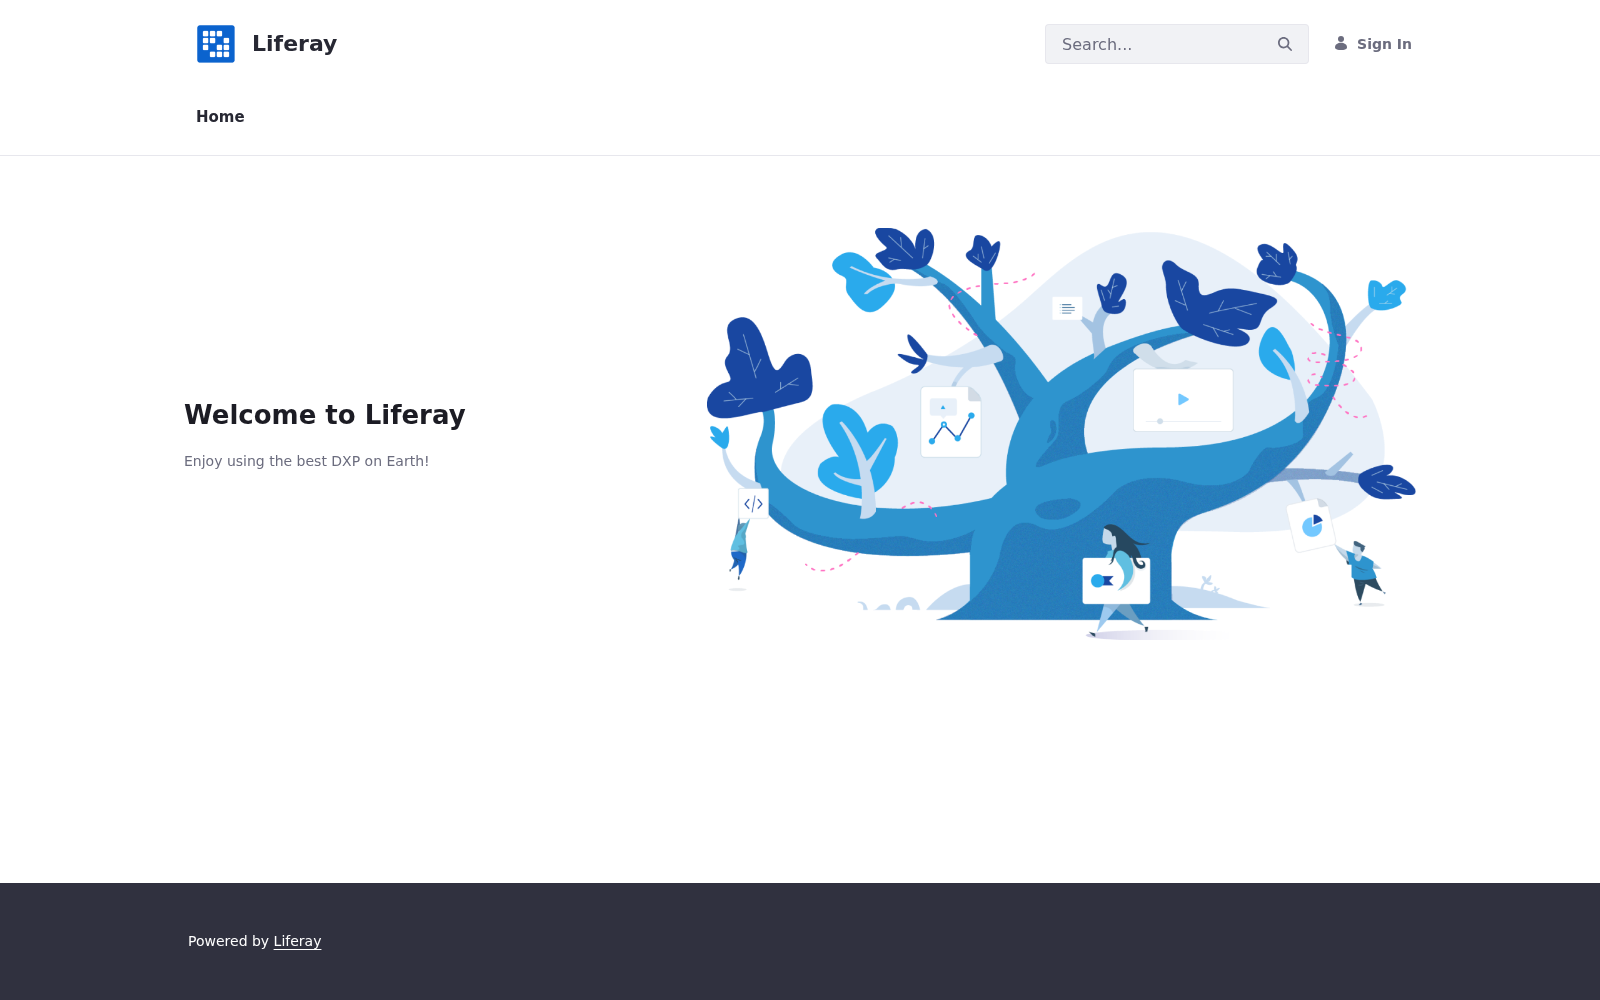
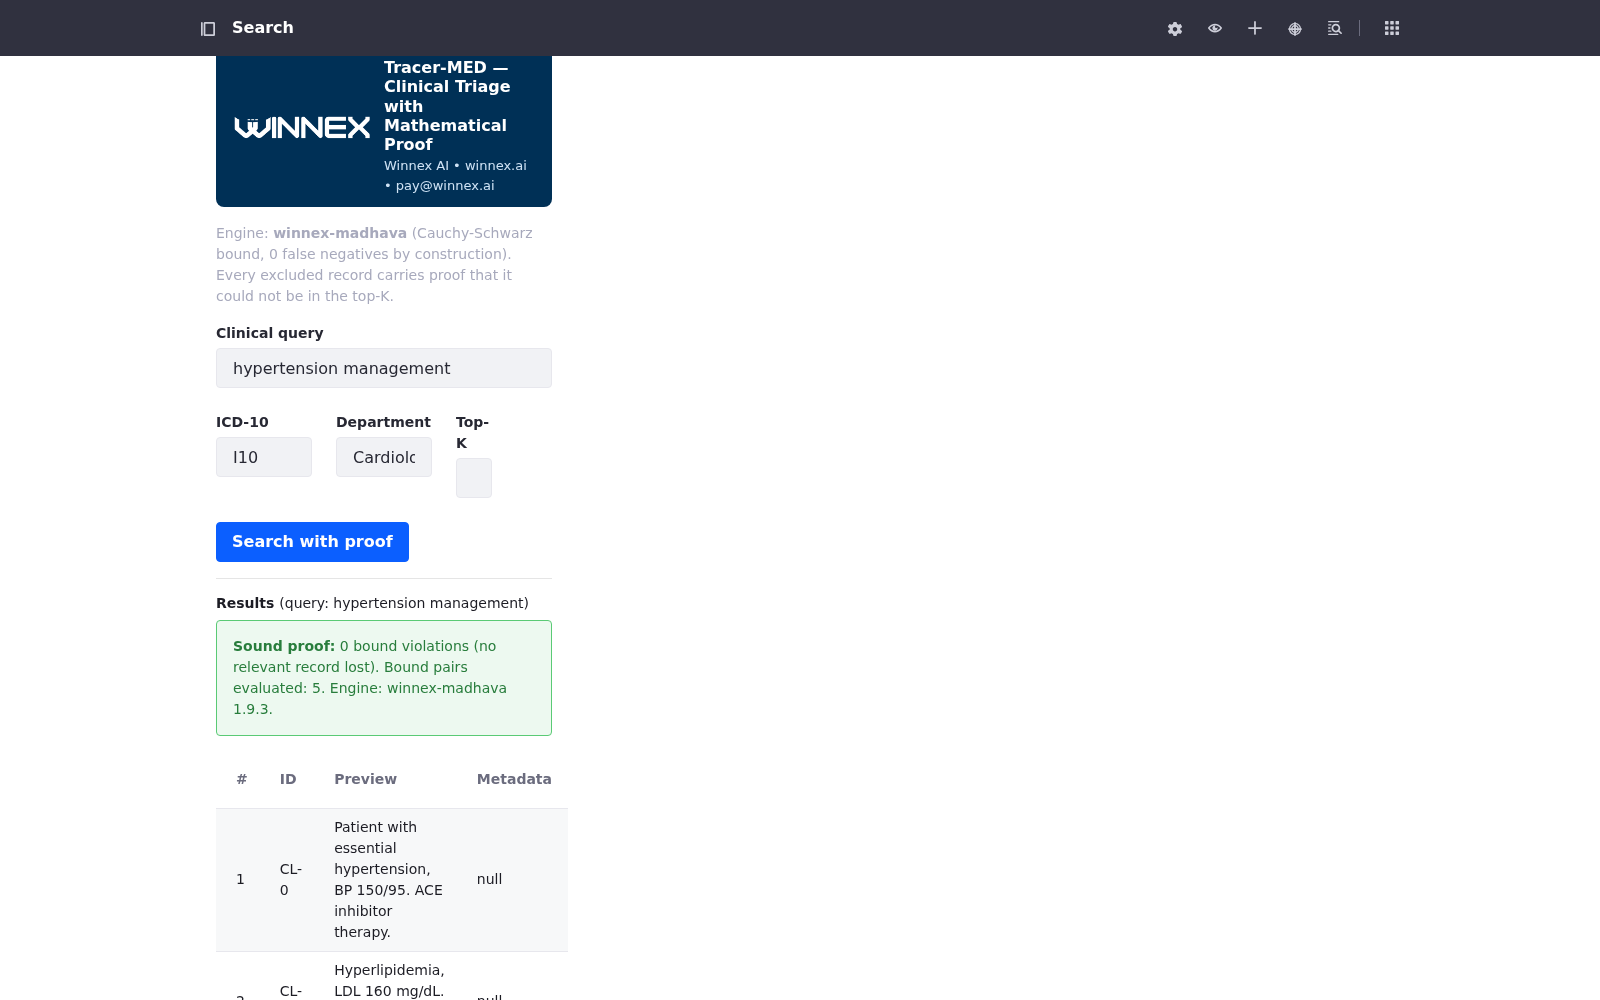
fix: real portlet screenshots, embedding config, docker build
- docs/screenshots/02-tracermed-portlet-results.png: real screenshot with
  results + sound proof banner (replaces the shared/empty placeholder)
- README.md: document edit-mode screenshot; examples described as reference
  patterns
- liferay/docker-compose.yml + Dockerfile: build image installing the Winnex
  OSGi bundles; NORMALIZE_SERVICE_URL env so the portlets reach the embedding
  service (host gateway)
- docs/WHITEPAPER_COMPLIANCE.html: compliance whitepaper
- .gitignore: exclude liferay/volumes/deploy runtime symlink

diff --git a/docs/WHITEPAPER_COMPLIANCE.html b/docs/WHITEPAPER_COMPLIANCE.html
@@ -1,0 +1,283 @@
+<!DOCTYPE html>
+<html lang="pt-BR">
+<head>
+<meta charset="UTF-8">
+<meta name="viewport" content="width=device-width, initial-scale=1.0">
+<title>Whitepaper de Conformidade — Tracer-MED | Winnex AI</title>
+<style>
+  :root {
+    --winnex-blue: #1a56db;
+    --winnex-dark: #0f2540;
+    --winnex-accent: #0e9f6e;
+    --ink: #1f2937;
+    --muted: #6b7280;
+    --line: #e5e7eb;
+    --bg-soft: #f9fafb;
+  }
+  * { box-sizing: border-box; margin: 0; padding: 0; }
+  body {
+    font-family: "Segoe UI", Roboto, "Helvetica Neue", Arial, sans-serif;
+    color: var(--ink);
+    line-height: 1.6;
+    background: var(--bg-soft);
+    padding: 2rem 1rem;
+  }
+  .paper {
+    max-width: 860px;
+    margin: 0 auto;
+    background: #fff;
+    border: 1px solid var(--line);
+    border-radius: 10px;
+    padding: 2.5rem 3rem;
+    box-shadow: 0 2px 12px rgba(15,37,64,.06);
+  }
+  header { border-bottom: 3px solid var(--winnex-blue); padding-bottom: 1.25rem; margin-bottom: 1.75rem; }
+  .brand { display: flex; align-items: center; justify-content: space-between; gap: 1rem; flex-wrap: wrap; }
+  .brand img { height: 40px; }
+  .brand .tagline { font-size: .85rem; color: var(--muted); text-align: right; }
+  .doc-badge {
+    display: inline-block; background: var(--winnex-blue); color: #fff;
+    font-size: .7rem; letter-spacing: .08em; text-transform: uppercase;
+    padding: .2rem .6rem; border-radius: 4px; margin-bottom: .75rem;
+  }
+  h1 { font-size: 1.7rem; color: var(--winnex-dark); line-height: 1.25; margin-bottom: .5rem; }
+  .subtitle { color: var(--muted); font-size: 1rem; }
+  .meta {
+    display: flex; gap: 1.5rem; flex-wrap: wrap; margin-top: 1rem;
+    font-size: .8rem; color: var(--muted);
+  }
+  .meta span b { color: var(--ink); }
+  h2 { font-size: 1.15rem; color: var(--winnex-dark); margin: 1.75rem 0 .75rem; }
+  h3 { font-size: 1rem; color: var(--winnex-dark); margin: 1.25rem 0 .5rem; }
+  p { margin-bottom: .75rem; }
+  ul, ol { margin: 0 0 .75rem 1.4rem; }
+  li { margin-bottom: .35rem; }
+  .callout {
+    background: #eef4ff; border-left: 4px solid var(--winnex-blue);
+    padding: .75rem 1rem; border-radius: 0 6px 6px 0; margin: 1rem 0;
+  }
+  .callout.green { background: #ecfdf5; border-left-color: var(--winnex-accent); }
+  table { width: 100%; border-collapse: collapse; margin: .75rem 0 1.25rem; font-size: .88rem; }
+  th, td { text-align: left; padding: .55rem .7rem; border: 1px solid var(--line); vertical-align: top; }
+  th { background: var(--winnex-dark); color: #fff; font-weight: 600; }
+  tr:nth-child(even) td { background: var(--bg-soft); }
+  code {
+    background: #f3f4f6; border: 1px solid var(--line); border-radius: 4px;
+    padding: .05rem .35rem; font-size: .82em; font-family: "Cascadia Code", Consolas, monospace;
+  }
+  .mapping-grid { display: grid; grid-template-columns: 1fr 1fr; gap: 1rem; margin: 1rem 0; }
+  .mapping-card { border: 1px solid var(--line); border-radius: 8px; padding: 1rem 1.1rem; background: #fff; }
+  .mapping-card h3 { margin-top: 0; }
+  .mapping-card .req { color: var(--muted); font-size: .8rem; text-transform: uppercase; letter-spacing: .05em; }
+  .mapping-card .how { color: var(--winnex-accent); font-weight: 600; font-size: .82rem; margin-top: .5rem; }
+  footer {
+    margin-top: 2rem; padding-top: 1.25rem; border-top: 1px solid var(--line);
+    font-size: .78rem; color: var(--muted); display: flex; justify-content: space-between; gap: 1rem; flex-wrap: wrap;
+  }
+  footer .cta { text-align: right; }
+  footer a { color: var(--winnex-blue); text-decoration: none; font-weight: 600; }
+  .print-only { display: none; }
+  @media print {
+    body { background: #fff; padding: 0; }
+    .paper { border: none; box-shadow: none; max-width: 100%; padding: 1rem 1.5rem; }
+    .no-print { display: none; }
+    .print-only { display: block; }
+    .mapping-grid { grid-template-columns: 1fr; }
+    h1 { font-size: 1.4rem; }
+  }
+</style>
+</head>
+<body>
+<div class="paper">
+
+  <header>
+    <div class="brand">
+      <img src="https://winnex.ai/logo-petit_white.webp" alt="Winnex AI">
+      <div class="tagline">Replace probability with proof,<br>in the service of health.</div>
+    </div>
+    <div class="doc-badge">Whitepaper de Conformidade</div>
+    <h1>Do recurso técnico à evidência de auditoria:<br>como <code>bound_violations = 0</code> atende ANVISA e HIPAA</h1>
+    <p class="subtitle">Como a garantia matemática do Tracer-MED se traduz em evidência utilizável em auditorias regulatórias de saúde — um guia técnico-comercial para parceiros e implementadores.</p>
+    <div class="meta">
+      <span>Produto: <b>Tracer-MED for Liferay</b></span>
+      <span>Motor: <b>Winnex Madhava 1.8.8</b></span>
+      <span>Versão: <b>1.0</b></span>
+      <span>Contato: <b>info@winnex.ai</b></span>
+    </div>
+  </header>
+
+  <h2>1. O que este documento faz</h2>
+  <p>
+    Este whitepaper mapeia — linha a linha — como a saída técnica do Tracer-MED
+    (a prova de completude da busca, expressa por <code>bound_violations = 0</code>)
+    responde a requisitos objetivos de auditoria da <b>ANVISA</b> (contexto
+    brasileiro, incluindo LGPD e RDCs aplicáveis) e da <b>HIPAA</b> (contexto
+    americano, 45 CFR Part 164). O objetivo é transformar uma garantia
+    matemática em um argumento de venda concreto para parceiros que precisam
+    justificar investimento em busca semântica regulada.
+  </p>
+  <div class="callout">
+    <b>Leitura honesta (importante para a venda):</b> o Tracer-MED <b>não é um
+    dispositivo médico</b> e os relatórios de conformidade são
+    <b>modelos de autoavaliação</b>, não certificações. A prova de
+    <code>bound_violations = 0</code> é a <b>base técnica</b> que torna esses
+    relatórios significativos: ela prova que a busca não perdeu registros
+    relevantes — e cada triagem fica registrada em trilha de auditoria
+    consultável (ver seção 4). A responsabilidade final pela conformidade
+    permanece da instituição.
+  </div>
+
+  <h2>2. O que exatamente significa <code>bound_violations = 0</code></h2>
+  <p>
+    Para cada consulta, o motor Madhava calcula, para cada documento, um
+    <b>limite superior</b> pela <b>desigualdade de Cauchy-Schwarz</b>. Se o
+    limite provar que o documento não pode estar no top-K, ele é excluído
+    <b>com prova</b> — nunca por heurística ou probabilidade. O contrato de
+    entrada é um vetor <code>float32</code> de norma unitária (o motor não
+    processa texto bruto; os embeddings são gerados fora do motor).
+  </p>
+  <ul>
+    <li><code>bound_violations = 0</code> → <b>garantia de completude</b>: nenhum registro relevante foi perdido nesta triagem.</li>
+    <li><code>bound_pairs = N</code> → quantidade de pares (documento, limite) avaliados — o <b>tamanho do registro de auditoria</b> desta consulta.</li>
+    <li><code>sound = true</code> → a mesma garantia como flag booleana de conveniência.</li>
+    <li><code>pruned_by_bound</code> → documentos descartados <b>com prova</b> (diferente do <code>pruned_by_prefilter</code>, que é heurística de latência).</li>
+  </ul>
+  <div class="callout green">
+    <b>Ponto de venda:</b> "Provado por desigualdade matemática, não por amostragem" é
+    uma frase que auditorias de saúde conseguem entender e registrar. A garantia
+    não depende de "confiar no algoritmo" — ela é verificável a posteriori por
+    qualquer parte.
+  </div>
+
+  <h2>3. Mapeamento para requisitos de auditoria</h2>
+  <p>
+    A tabela abaixo traduz cada requisito regulatório em <b>o que o auditor
+    pede</b> e <b>como o Tracer-MED entrega</b>. Este é o núcleo de venda do
+    whitepaper: cada linha é um argumento pronto para reunião de parceiro.
+  </p>
+
+  <h3>3.1 ANVISA — contexto brasileiro (LGPD + RDCs)</h3>
+  <div class="mapping-grid">
+    <div class="mapping-card">
+      <div class="req">LGPD · Art. 20</div>
+      <h3>Revisão de decisões automatizadas</h3>
+      <p>O titular tem direito de solicitar revisão de decisões tomadas com base em tratamento automatizado de dados pessoais.</p>
+      <p class="how">Como o Tracer-MED atende: cada triagem retorna a prova <code>bound_violations = 0</code> e fica persistida com <code>boundPairs</code>, <code>sound</code>, <code>engine</code>, <code>latencyMs</code> e <code>resultJson</code> (Exemplo 04). O titular/auditor pode reconstruir <i>o que foi buscado, quando e com que garantia</i>.</p>
+    </div>
+    <div class="mapping-card">
+      <div class="req">LGPD · Art. 5 II e Art. 11</div>
+      <h3>Dados sensíveis de saúde</h3>
+      <p>Dados de saúde são sensíveis; exigem base legal, finalidade específica e minimização.</p>
+      <p class="how">Como o Tracer-MED atende: a garantia de completude evita "silencio por perda de registro", reduzindo o risco de decisão clínica baseada em recuperação incompleta. A trilha de auditoria registra finalidade e operador (metadados de triagem) — documentação de responsabilidade.</p>
+    </div>
+    <div class="mapping-card">
+      <div class="req">RDC 585/2021 · Boas Práticas (softwares de saúde)</div>
+      <h3>Rastreabilidade e verificação de software</h3>
+      <p>Exige documentação de ciclo de vida, verificação e rastreabilidade de decisões do software.</p>
+      <p class="how">Como o Tracer-MED atende: o certificado QR (Exemplo 07) e o <code>qr_projection_hash</code> permitem validar <i>a posteriori</i> que uma triagem foi processada pelo Madhava 1.8.8 com garantias matemáticas intactas — um elemento de verificação demonstrável.</p>
+    </div>
+    <div class="mapping-card">
+      <div class="req">RDC 830/2023 · LGPD em produtos de saúde</div>
+      <h3>Transparência no tratamento de dados</h3>
+      <p>Amplia a aplicação da LGPD no setor de saúde, reforçando transparência e prestação de contas.</p>
+      <p class="how">Como o Tracer-MED atende: a trilha de auditoria consultável + relatórios de autoavaliação LGPD/GDPR/HIPAA são a camada de transparência. A garantia matemática torna o "prestação de contas" verificável, não declarativo.</p>
+    </div>
+  </div>
+
+  <h3>3.2 HIPAA — contexto americano (45 CFR Part 164)</h3>
+  <div class="mapping-grid">
+    <div class="mapping-card">
+      <div class="req">164.308(a)(1)(ii)(D)</div>
+      <h3>Information System Activity Review</h3>
+      <p>Revisão periódica dos registros de atividade dos sistemas de informação que contêm ePHI.</p>
+      <p class="how">Como o Tracer-MED atende: cada triagem gera um registro de auditoria persistido (quem, quando, query, prova). A trilha é consultável por tenant e por estado <code>sound</code> — matéria-prima direta para a revisão periódica exigida.</p>
+    </div>
+    <div class="mapping-card">
+      <div class="req">164.312(b) · Audit Controls</div>
+      <h3>Controles de auditoria em hardware, software e procedimentos</h3>
+      <p>Registrar e examinar a atividade nos sistemas que usam ou acessam ePHI.</p>
+      <p class="how">Como o Tracer-MED atende: persistência de auditoria (Exemplo 04) com <code>companyId</code>, <code>userId</code>, <code>tenantId</code>, query, filtros e a prova completa. O <code>engine</code> e a versão ficam gravados — auditabilidade de ponta a ponta.</p>
+    </div>
+    <div class="mapping-card">
+      <div class="req">164.312(e)(1) · Integrity</div>
+      <h3>Proteger ePHI contra alteração ou destruição imprópria</h3>
+      <p>Mecanismos para garantir que ePHI não tenha sido alterada ou destruída indevidamente.</p>
+      <p class="how">Como o Tracer-MED atende: o certificado QR valida apenas o <b>hash matemático</b> e metadados — <b>não expõe dados do paciente</b>. A verificação confirma que a prova não foi adulterada, reforçando integridade sem vazar ePHI.</p>
+    </div>
+    <div class="mapping-card">
+      <div class="req">164.514 · De-identification</div>
+      <h3>Desidentificação de informações de saúde</h3>
+      <p>Reduzir o risco de reidentificação ao usar dados para pesquisa/análise.</p>
+      <p class="how">Como o Tracer-MED atende: o motor indexa <b>vetores float32</b>, não texto bruto — e a trilha guarda metadados de auditoria, não payloads sensíveis. A superfície de exposição de ePHI é estruturalmente menor.</p>
+    </div>
+  </div>
+
+  <h2>4. A trilha de auditoria: o que fica gravado</h2>
+  <p>
+    O Exemplo 04 (persistência via Service Builder) grava, para cada triagem,
+    os campos que o auditor precisa ver:
+  </p>
+  <table>
+    <thead>
+      <tr><th>Campo</th><th>Exemplo</th><th>Uso em auditoria</th></tr>
+    </thead>
+    <tbody>
+      <tr><td><code>boundViolations</code></td><td><code>0</code></td><td>Garantia de completude — o coração da evidência</td></tr>
+      <tr><td><code>boundPairs</code></td><td><code>8</code></td><td>Tamanho do registro de auditoria desta consulta</td></tr>
+      <tr><td><code>sound</code></td><td><code>true</code></td><td>Flag de conveniência para consulta e filtro</td></tr>
+      <tr><td><code>engine</code></td><td><code>winnex-madhava 1.8.8</code></td><td>Versão exata que produziu a prova</td></tr>
+      <tr><td><code>latencyMs</code></td><td><code>3.2</code></td><td>Metadado operacional de desempenho</td></tr>
+      <tr><td><code>tenantId / companyId / userId</code></td><td><code>liferay-1001</code></td><td>Quem buscou, em qual tenant isolado</td></tr>
+      <tr><td><code>query / cid10 / department / k</code></td><td><code>hypertension management</code></td><td>O que foi buscado e com quais filtros</td></tr>
+      <tr><td><code>resultJson</code></td><td><code>{...top docs...}</code></td><td>Resultado top-K da triagem (preview)</td></tr>
+    </tbody>
+  </table>
+  <p>
+    Somado a isso, o Exemplo 07 emite o <b>Certificado de Auditoria Matemática</b>
+    (PDF/modal + QR Code apontando para o endpoint de verificação), permitindo
+    validação independente da integridade da prova — sem expor dados clínicos.
+  </p>
+
+  <h2>5. Como usar este documento na venda (para parceiros)</h2>
+  <ol>
+    <li><b>Abra a conversa pela dor regulatória</b>: "como sua instituição prova que a busca clínica não perdeu um registro relevante?" — não comece pela matemática, comece pelo risco.</li>
+    <li><b>Traduza a prova em evidência</b>: apresente a tabela da seção 3. Cada linha conecta um requisito (ANVISA/HIPAA) ao campo que o Tracer-MED grava.</li>
+    <li><b>Demonstre a trilha ao vivo</b>: rode o exemplo 04 e mostre o registro persistido com <code>boundViolations = 0</code> — o auditor vê a mesma tela.</li>
+    <li><b>Mostre o certificado QR</b>: verificação a posteriori é um diferencial difícil de copiar; aponte que valida o hash sem expor ePHI.</li>
+    <li><b>Enquadre a honestidade como credibilidade</b>: o Tracer-MED é autoavaliação, não certificação — ser explícito sobre isso constrói confiança e evita objeção do compliance do cliente.</li>
+    <li><b>Escalone para a família de produtos</b>: o mesmo motor Madhava está disponível via plug de API compatível com OpenAI e stack de inferência gerenciada — projetos fora do Liferay também usam a garantia.</li>
+  </ol>
+
+  <h2>6. Sobre a Winnex e os limites deste documento</h2>
+  <p>
+    A <b>Winnex AI</b> (Winnex Brasil Soluções Empresariais LTDA — CNPJ
+    58.364.637/0001-47) desenvolve o motor <b>Winnex Madhava</b> e as soluções
+    Tracer (MED e GOV) para Liferay. A garantia <code>bound_violations = 0</code>
+    é <b>completude da busca</b>: ela não afirma que o top-K é a resposta certa,
+    nem substitui julgamento clínico. Relevância depende do modelo de embedding
+    usado na ingestão — e é exatamente essa etapa de integração (seleção de
+    modelo, pipeline de inferência, orquestração RAG) que a Winnex implementa
+    sob contrato. Os relatórios de conformidade são <b>modelos de
+    autoavaliação</b>, não certificações emitidas por órgãos reguladores.
+  </p>
+  <div class="callout green">
+    <b>Próximo passo para parceiros:</b> para orçamento de implementação de
+    inferência ou RAG, envie e-mail para <b>info@winnex.ai</b> informando formato
+    e volume dos dados e o contexto regulatório da instituição. Teremos o prazer
+    de dimensionar a integração e apoiar sua apresentação ao cliente.
+  </div>
+
+  <footer>
+    <div>
+      Winnex AI — "Replace probability with proof, in the service of health."<br>
+      BSL 1.1 · info@winnex.ai · Winnex Brasil Soluções Empresariais LTDA (CNPJ 58.364.637/0001-47)
+    </div>
+    <div class="cta">
+      <a href="mailto:info@winnex.ai">info@winnex.ai</a><br>
+      <a href="https://winnex.ai">winnex.ai</a>
+    </div>
+  </footer>
+
+</div>
+</body>
+</html>

diff --git a/README.md b/README.md
@@ -169,9 +169,16 @@ Standard Liferay sign-in. Default demo admin: `test@liferay.com` / `test`.
 ![Tracer-MED Portlet Results](docs/screenshots/02-tracermed-portlet-results.png)
 
 The portlet shows: the clinical query form (query + ICD-10 + department
-filters), the **sound proof** banner (0 bound violations), the audit block
-(tenant_id, bound_violations, bound_pairs, sound, engine, latency_ms) and the
-results table.
+filters), the **sound proof** banner (0 bound violations, no relevant record
+lost), the bound pairs evaluated, the engine, and the ranked results table
+(external ID + preview).
+
+### Tracer-MED portlet in edit mode
+
+![Tracer-MED Edit Mode](docs/screenshots/03-tracermed-edit-mode.png)
+
+The portlet can be added to any page from the Liferay widget panel under
+**Winnex → Tracer-MED**.
 
 ---
 
@@ -295,16 +302,17 @@ these reports meaningful.
 
 ## Usage examples
 
-Real, ready-to-use implementations (in English) live in the `examples/`
-directory. If you are a developer integrating Tracer-MED, start here:
+Reference patterns (in English) live in the `examples/` directory. Each one
+shows, with code snippets, how a specific integration is done. If you are a
+developer integrating Tracer-MED, start here:
 
-| # | Example | What it does |
+| # | Example | What it shows |
 |---|---|---|
 | [01](examples/01-portlet-semantic-search/README.md) | Portlet semantic search | The production portlet: search clinical records with proof and filters. |
 | [02](examples/02-rest-resource/README.md) | REST API | Expose `/o/rest/tracer-med/*` for any front-end or integration. |
 | [03](examples/03-scheduler/README.md) | Auto-index scheduler | Keep a tenant's index fresh automatically (ingestion). |
 | [04](examples/04-service-builder/README.md) | Audit persistence | Save every triage (query + proof) in the Liferay database. |
-| [05](examples/05-standalone-client/README.md) | Standalone client | A pure-Java client to the engine (the contract of the bridge). |
+| [05](examples/05-standalone-client/README.md) | Standalone client | A pure-Java HTTP client to the engine (the contract of the bridge). |
 | [07](examples/07-qr-certificate/README.md) | QR-code certificate | Emit a scannable Mathematical Audit Certificate. |
 | [scripts](examples/scripts/README.md) | Live demo | cURL end-to-end: health -> index -> search with proof. |
 
